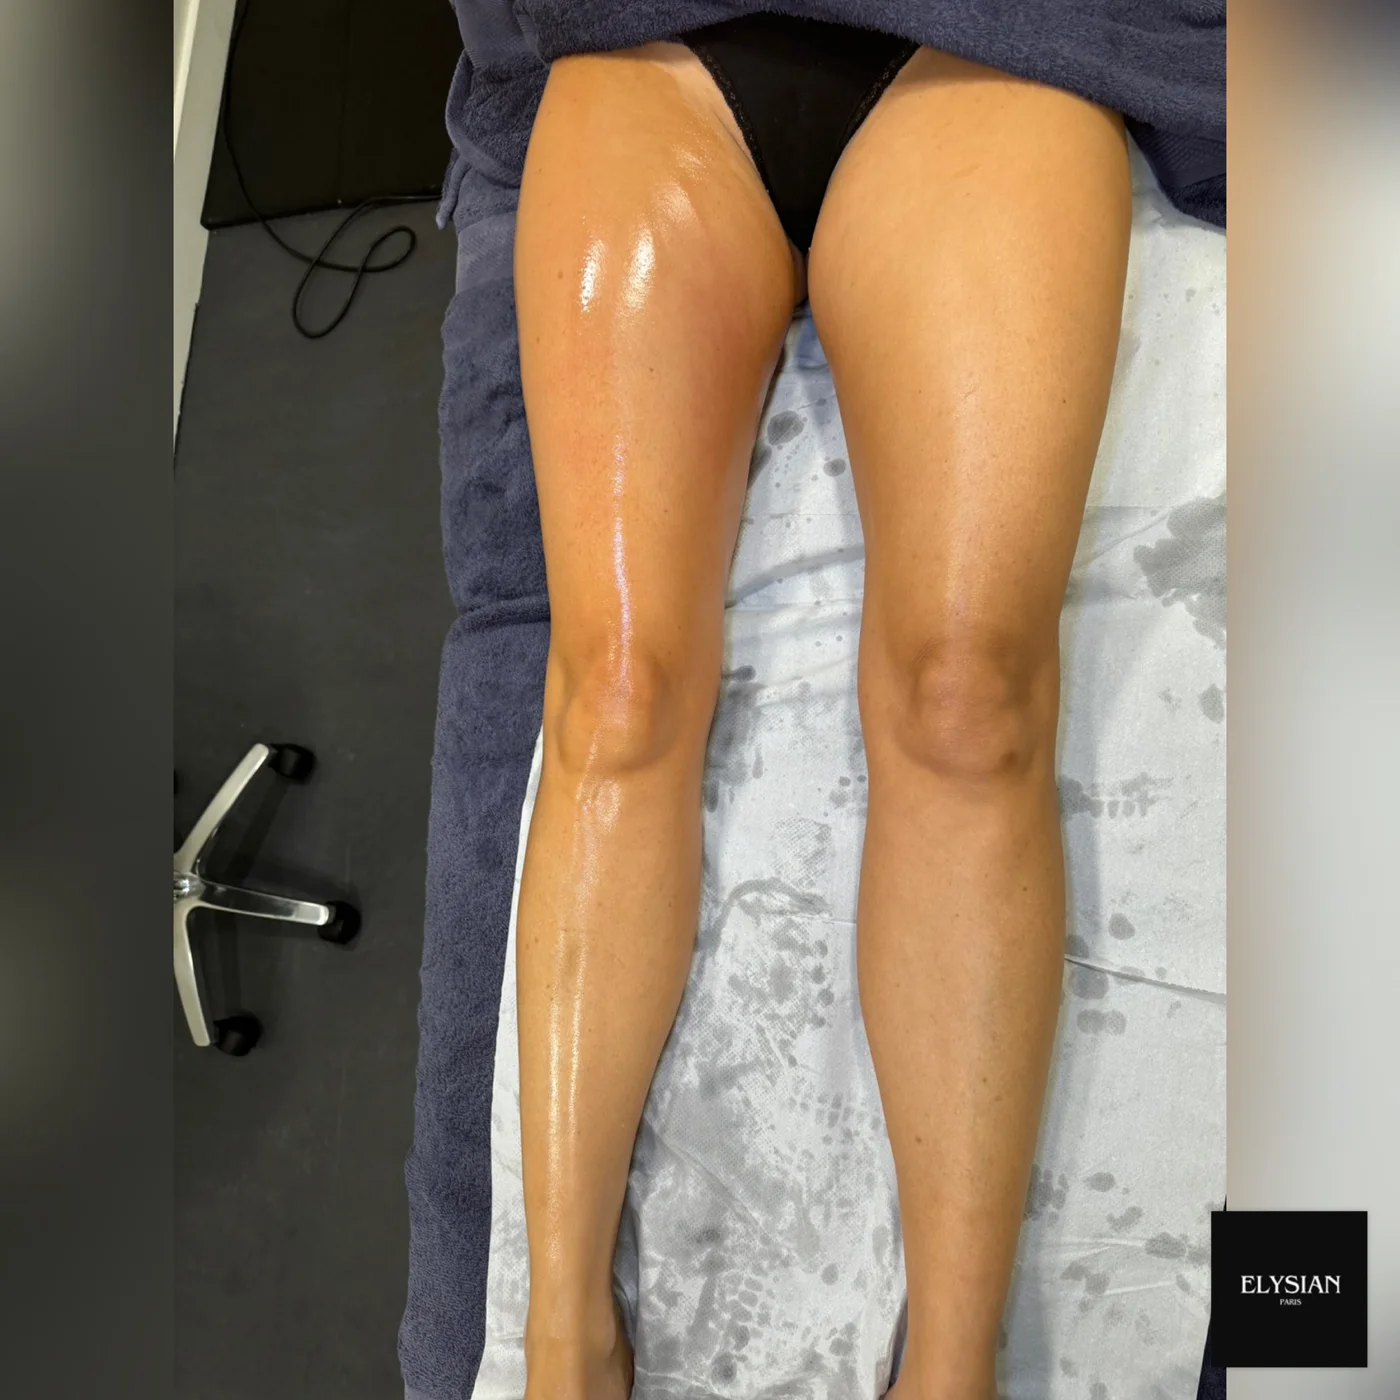
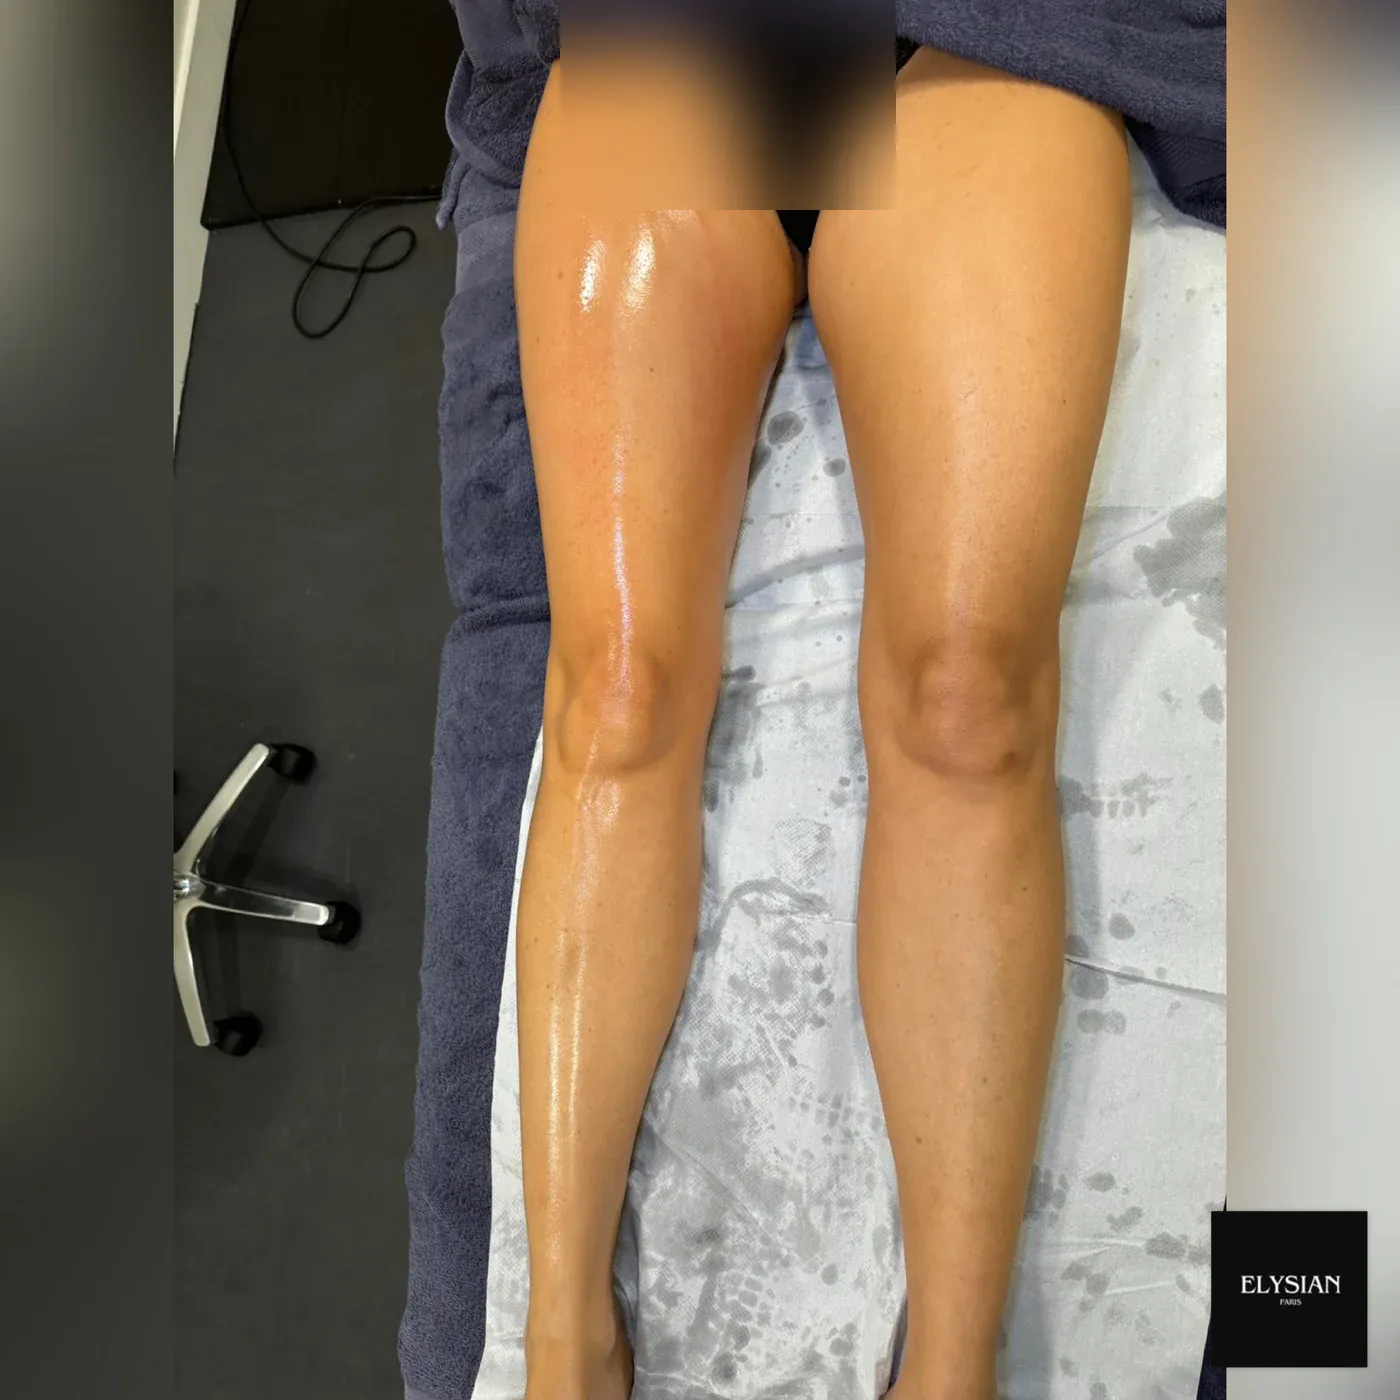
Add client before/after photos to the results band (#13)
Optimise the uploaded before/after JPEGs to WebP, add them to the
auto-scrolling results band (square frames, SEO alt text), blur intimate
areas on the leg photos, drop the lower-abdomen close-up, and remove the
heavy originals from the repo root.

Changed region(s): [[0.3993, 0.0, 0.645, 0.1536]]

diff --git a/src/components/sections/Results.tsx b/src/components/sections/Results.tsx
@@ -1,24 +1,22 @@
 import { motion } from "framer-motion";
 import abdomen1 from "../../assets/result-abdomen-1.webp";
 import abdomen2 from "../../assets/result-abdomen-2.webp";
+import abdomen4 from "../../assets/result-abdomen-4.webp";
+import stomach from "../../assets/result-stomach.webp";
+import thighs from "../../assets/result-thighs.webp";
+import waist from "../../assets/result-waist.webp";
 import legs from "../../assets/result-legs.webp";
+import legs2 from "../../assets/result-legs-2.webp";
 
 const results = [
-  {
-    src: abdomen1,
-    caption: "Abdomen · immediate decongestion",
-    alt: "Abdominal lymphatic drainage before and after: decongestion and flatter stomach, Elysian Paris",
-  },
-  {
-    src: abdomen2,
-    caption: "Abdomen · sculpted & flatter",
-    alt: "Abdominal lymphatic drainage before and after: visibly sculpted and flatter stomach, Elysian Paris",
-  },
-  {
-    src: legs,
-    caption: "Legs · lighter & decongested",
-    alt: "Legs before and after lymphatic drainage: lighter and decongested, Elysian Paris, London",
-  },
+  { src: waist, caption: "Waist · sculpted contour", alt: "Waist lymphatic drainage before and after, sculpted contour, Elysian Paris London" },
+  { src: stomach, caption: "Stomach · flatter & smoother", alt: "Stomach lymphatic drainage before and after, flatter and smoother, Elysian Paris London" },
+  { src: thighs, caption: "Thighs · −3 cm in one session", alt: "Thigh lymphatic drainage before and after, minus 3 cm in one session, Elysian Paris London" },
+  { src: legs2, caption: "Legs · lighter & sculpted", alt: "Legs lymphatic drainage before and after, lighter and sculpted, Elysian Paris London" },
+  { src: abdomen4, caption: "Abdomen · before & after", alt: "Abdominal lymphatic drainage before and after, Elysian Paris London" },
+  { src: abdomen1, caption: "Abdomen · immediate decongestion", alt: "Abdominal lymphatic drainage before and after, immediate decongestion, Elysian Paris London" },
+  { src: abdomen2, caption: "Abdomen · sculpted & flatter", alt: "Abdominal lymphatic drainage before and after, sculpted and flatter, Elysian Paris London" },
+  { src: legs, caption: "Legs · lighter & decongested", alt: "Legs before and after lymphatic drainage, lighter and decongested, Elysian Paris London" },
 ];
 
 // Duplicated so the band scrolls seamlessly
@@ -47,10 +45,10 @@ export function Results() {
 
       {/* Auto-scrolling band (pauses on hover) */}
       <div className="group relative">
-        <div className="flex w-max gap-6 animate-[results-marquee_38s_linear_infinite] group-hover:[animation-play-state:paused]">
+        <div className="flex w-max gap-6 animate-[results-marquee_60s_linear_infinite] group-hover:[animation-play-state:paused]">
           {track.map((r, i) => (
-            <figure key={i} className="shrink-0 w-[260px] md:w-[320px]">
-              <div className="h-[340px] md:h-[420px] overflow-hidden bg-[#1A1A1A]">
+            <figure key={i} className="shrink-0 w-[280px] md:w-[340px]">
+              <div className="w-full aspect-square overflow-hidden bg-[#1A1A1A]">
                 <img
                   src={r.src}
                   alt={r.alt}
